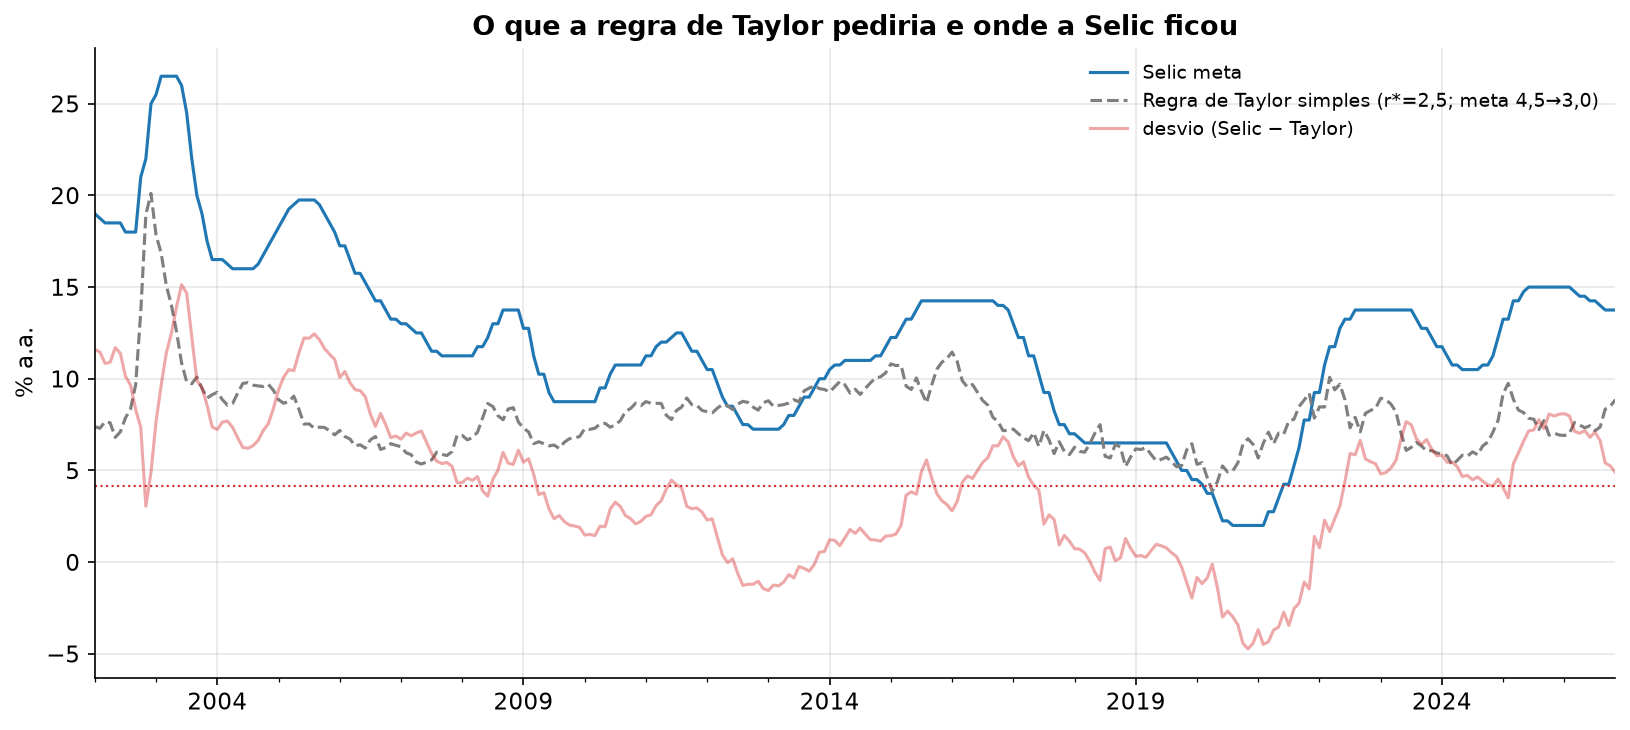
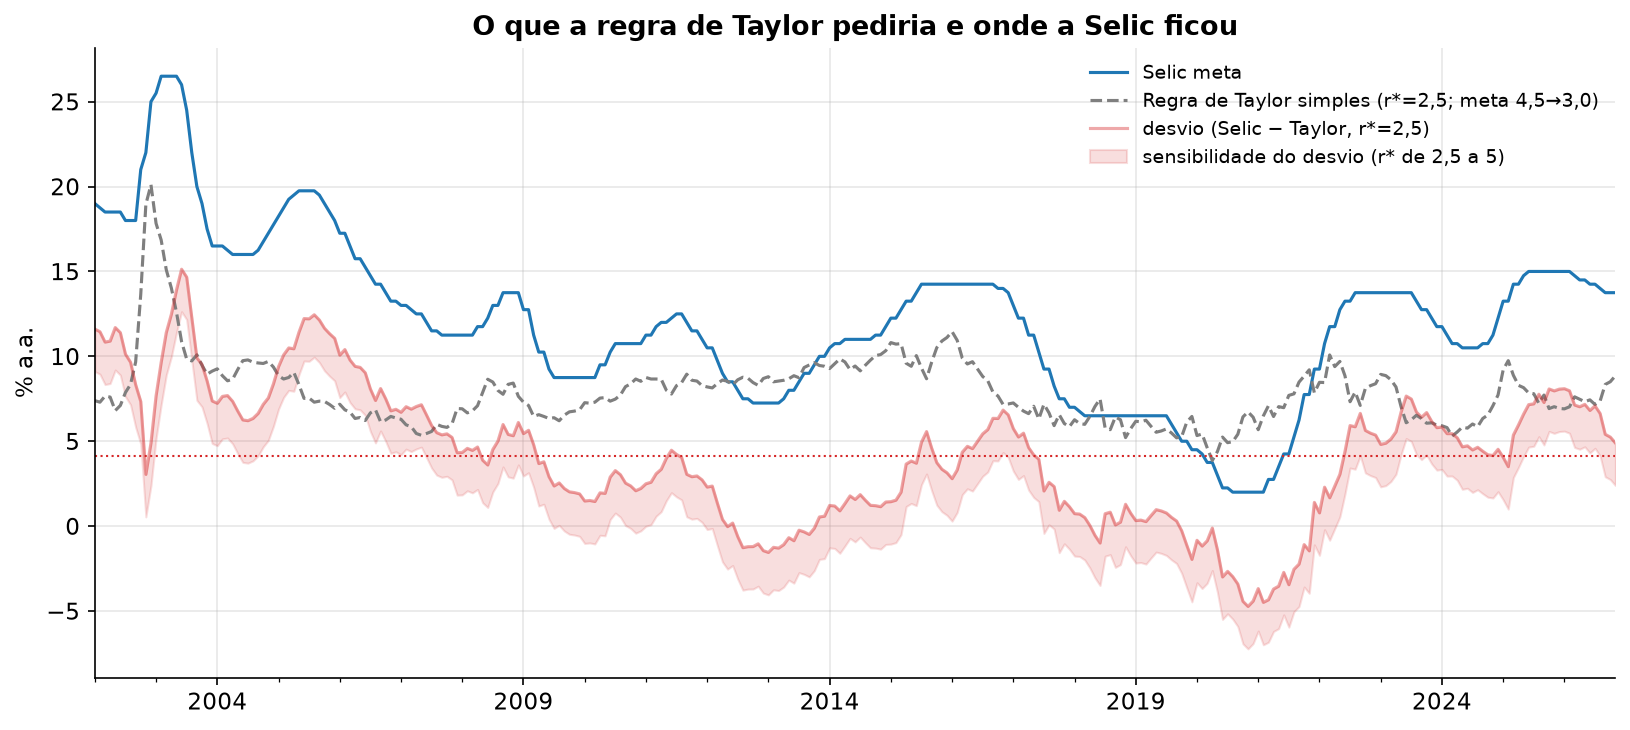
sensibilidade do juro neutro (r* 2,5–5, faixa em vez de ponto) e i do i-g na janela de 12 meses (a do documentos.py) — + correcao da cobertura por tabela

diff --git a/src/processa/indicadores.py b/src/processa/indicadores.py
@@ -310,20 +310,31 @@ def custo_medio() -> pd.DataFrame:
     return c
 
 
-def custo_medio_dpf() -> pd.DataFrame:
-    """Custo médio do estoque (% a.a.), escopo DPF — série mensal desde 2005."""
+# cobertura mínima por tabela do RMD 4.x (a série "12m" precisa de 12 meses
+# de histórico, então começa um ano depois da mensal)
+COBERTURA_CUSTO = {"estoque mensal": "2005-01", "estoque 12m": "2005-12"}
+
+
+def custo_medio_dpf(tabela: str = "estoque mensal") -> pd.DataFrame:
+    """Custo médio do estoque (% a.a.), escopo DPF.
+
+    `tabela` = "estoque mensal" (taxa anualizada do mês) ou "estoque 12m"
+    (acumulada em 12 meses — a janela coerente para comparar com o
+    crescimento ANUAL do PIB no i−g; o `documentos.py` usa 12m).
+    """
     c = ler_parquet("rmd_custo_medio")
     _exigir_colunas(c, ["data", "escopo", "tabela", "taxa_pct_aa"],
                     "rmd_custo_medio.parquet")
-    d = c[(c.tabela == "estoque mensal") & (c.escopo == "DPF")]
+    d = c[(c.tabela == tabela) & (c.escopo == "DPF")]
     if d.empty:
         raise ValueError(
-            "custo_medio_dpf: o filtro 'estoque mensal'/'DPF' não casou nenhuma "
-            "linha — os rótulos do RMD 4.x mudaram?")
-    if d.data.min().to_period("M") > pd.Period("2005-01"):
+            f"custo_medio_dpf: o filtro {tabela!r}/'DPF' não casou nenhuma "
+            f"linha — tabelas disponíveis: {sorted(c.tabela.unique())}")
+    desde = COBERTURA_CUSTO.get(tabela, "2005-01")
+    if d.data.min().to_period("M") > pd.Period(desde):
         raise ValueError(
             f"custo_medio_dpf: cobertura recuou — começa em "
-            f"{d.data.min():%Y-%m} (esperado desde 2005-01)")
+            f"{d.data.min():%Y-%m} (esperado desde {desde})")
     return d[["data", "taxa_pct_aa"]].reset_index(drop=True)
 
 

diff --git a/app/graficos.py b/app/graficos.py
@@ -110,6 +110,9 @@ def fig_desvio_taylor(d) -> go.Figure:
     # Taylor de 2025–26 fica 0,75 p.p. abaixo e o desvio infla na mesma medida
     meta = ind.meta_inflacao().reindex(t.index).ffill()
     t["taylor"] = 2.5 + t.focus_ipca_12m + 0.5 * (t.focus_ipca_12m - meta)
+    # r* é premissa, não dado: o desvio cai 1:1 com r* — a régua com r*=5
+    # (limite superior da faixa) fica 2,5 p.p. acima da base
+    t["taylor_r5"] = 5 + t.focus_ipca_12m + 0.5 * (t.focus_ipca_12m - meta)
     fig = go.Figure()
     fig.add_scatter(x=t.index, y=t.taylor,
                     name="Regra de Taylor simples (r*=2,5; meta 4,5→3,0)",
@@ -118,6 +121,8 @@ def fig_desvio_taylor(d) -> go.Figure:
     fig.add_scatter(x=t.index, y=t.selic_meta, name="Selic meta",
                     line=dict(color="#1f77b4"), mode="lines",
                     fill="tonexty", fillcolor="rgba(31,119,180,0.15)")
+    fig.add_scatter(x=t.index, y=t.taylor_r5, name="Taylor com r*=5 (sensibilidade)",
+                    line=dict(color="#7f7f7f", dash="dot"), mode="lines")
     fig.update_yaxes(title="% a.a.")
     _layout(fig)
     return fig

diff --git a/app/tabelas.py b/app/tabelas.py
@@ -56,12 +56,12 @@ def fig_i_g(d) -> tuple[pd.DataFrame, go.Figure]:
         "g (PIB nominal)": g_nom,
         "g (PIB real, IBGE)": g_real,
     }).loc[2013:]
-    i_nom = d["custo"].set_index("data").taxa_pct_aa.resample("YE").last()
+    i_nom = ind.custo_medio_dpf(tabela="estoque 12m").set_index("data").taxa_pct_aa.resample("YE").last()
     i_nom.index = i_nom.index.year
     i_real = d["macro"].groupby(d["macro"].index.year).mean().juro_real_ex_ante
-    tab["i (custo médio DPF)"] = i_nom.loc[2013:2025]
+    tab["i (custo médio DPF, 12m)"] = i_nom.loc[2013:2025]
     tab["r (juro real ex ante)"] = i_real.loc[2013:2025]
-    tab["i − g (nominal)"] = tab["i (custo médio DPF)"] - tab["g (PIB nominal)"]
+    tab["i − g (nominal)"] = tab["i (custo médio DPF, 12m)"] - tab["g (PIB nominal)"]
     tab["r − g (real)"] = tab["r (juro real ex ante)"] - tab["g (PIB real, IBGE)"]
     tab.index.name = "ano"
     tab_l = tab.reset_index()

diff --git a/app/paginas.py b/app/paginas.py
@@ -66,7 +66,9 @@ def p1(d) -> None:
     st.plotly_chart(fig_desvio_taylor(d), width="stretch")
     st.info(
         "**Conclusão verificável:** o juro extra atual não é “preço da "
-        "inflação”: é um prêmio institucional adicional. Defender que "
+        "inflação”: é um prêmio institucional adicional — e a sua medida é "
+        "uma faixa, não um ponto: ~6,0 p.p. com r*=2,5, ~3,5 p.p. com r*=5 "
+        "(o desvio cai 1:1 com a premissa de juro neutro). Defender que "
         "“está justificado” é uma posição — a causa adicional (risco fiscal? "
         "credibilidade?) não está nos dados macro aqui usados."
     )

diff --git a/README.md b/README.md
@@ -30,7 +30,9 @@ ferramenta web de transparência sobre os rendimentos da dívida.
   pediria ~8,2–8,8% a.a. para Focus ~5%. O **desvio médio 2024–26 (~6,0 p.p.)
   é o maior entre as janelas comparadas** (2003–14:
   4,9; 2022–23: 5,1 p.p.), mas **não é recorde histórico**: a MM36 chegou a
-  9,9 p.p. em fev/2006.
+  9,9 p.p. em fev/2006. O desvio é sensível à premissa de juro neutro (r*):
+  ~6,0 p.p. com r*=2,5, ~4,5 com r*=4 e ~3,5 com r*=5 — a entrevista
+  verificada de Kanczuk discute r* de 8% (ele), 5% (BC) e 6% (consenso).
 - Atividade (IBC-Br +2–3%) e desemprego em mínimo (5,2–5,3%) não explicam o
   patamar. **Conclusão verificável:** o juro atual é inflação esperada **+
   prêmio institucional adicional** sem contrapeso inflacionário — defender que
